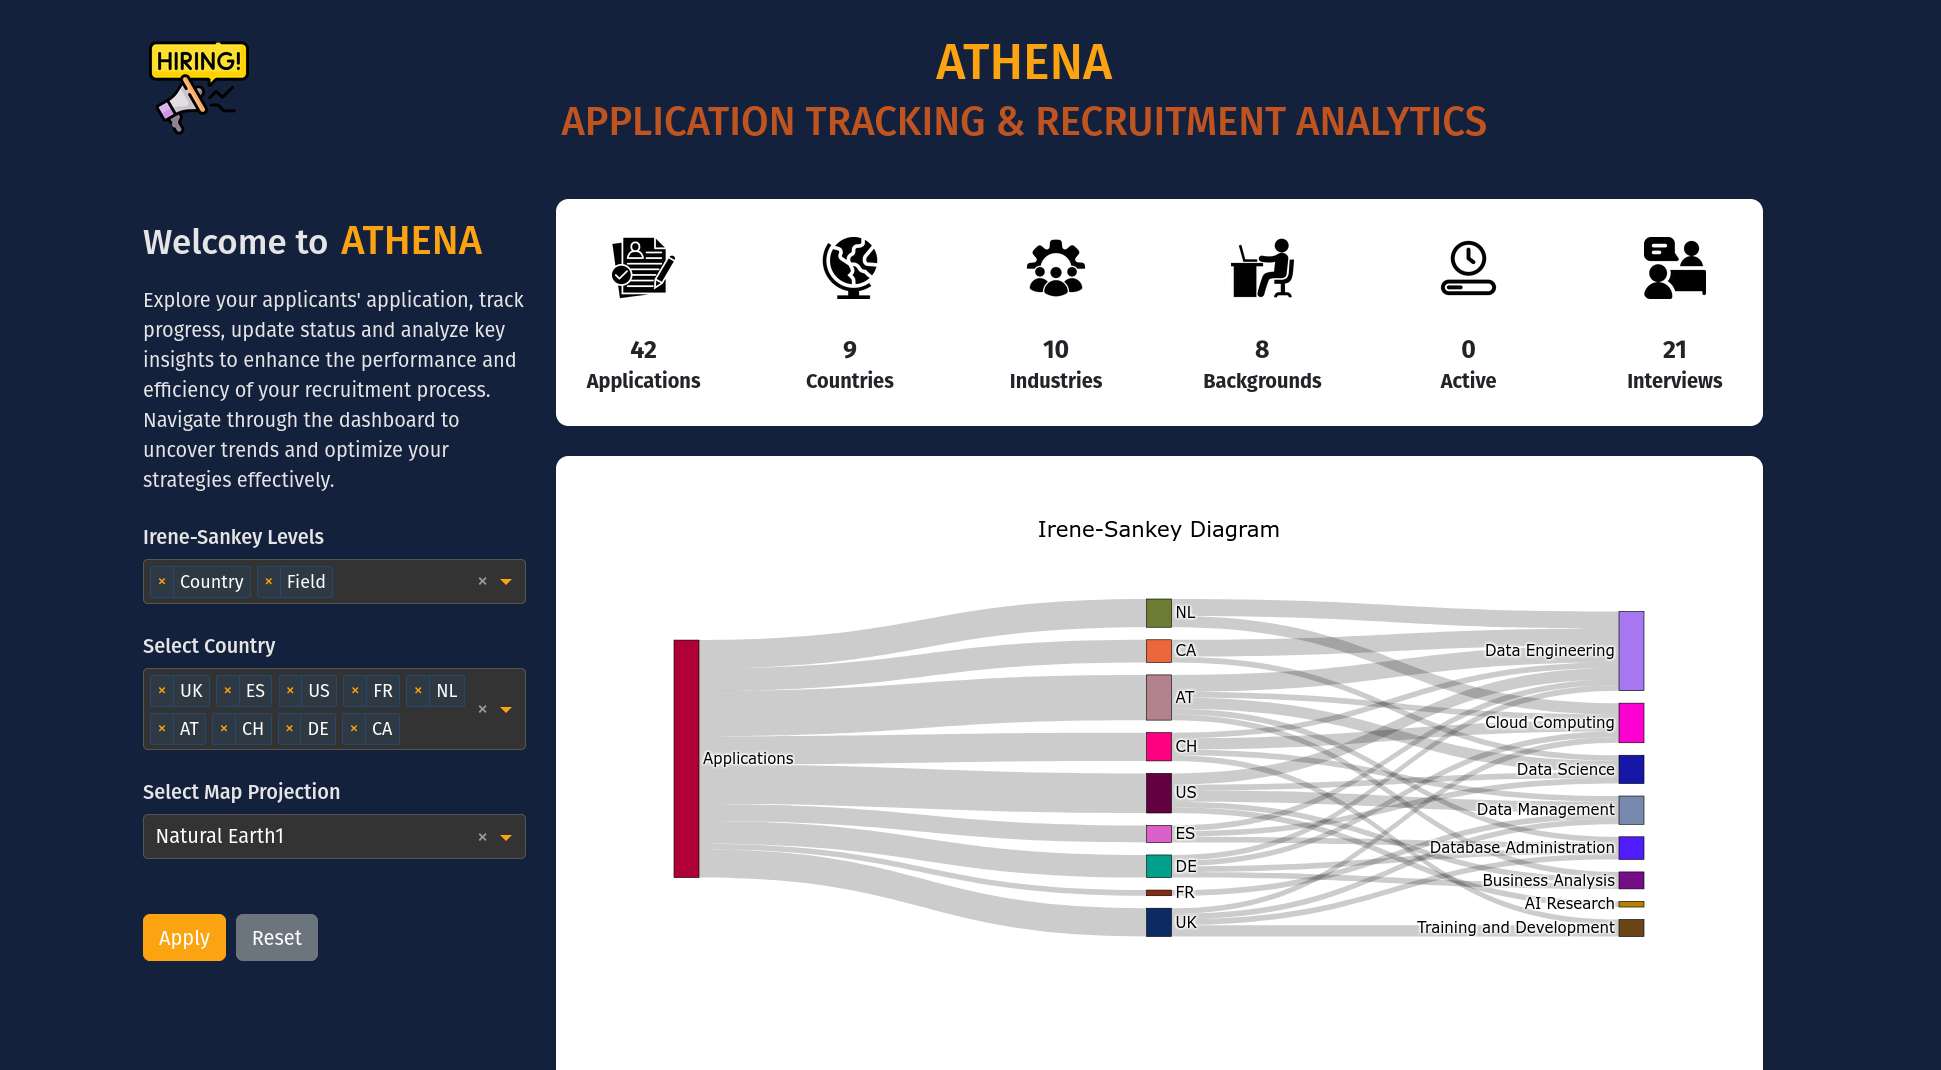
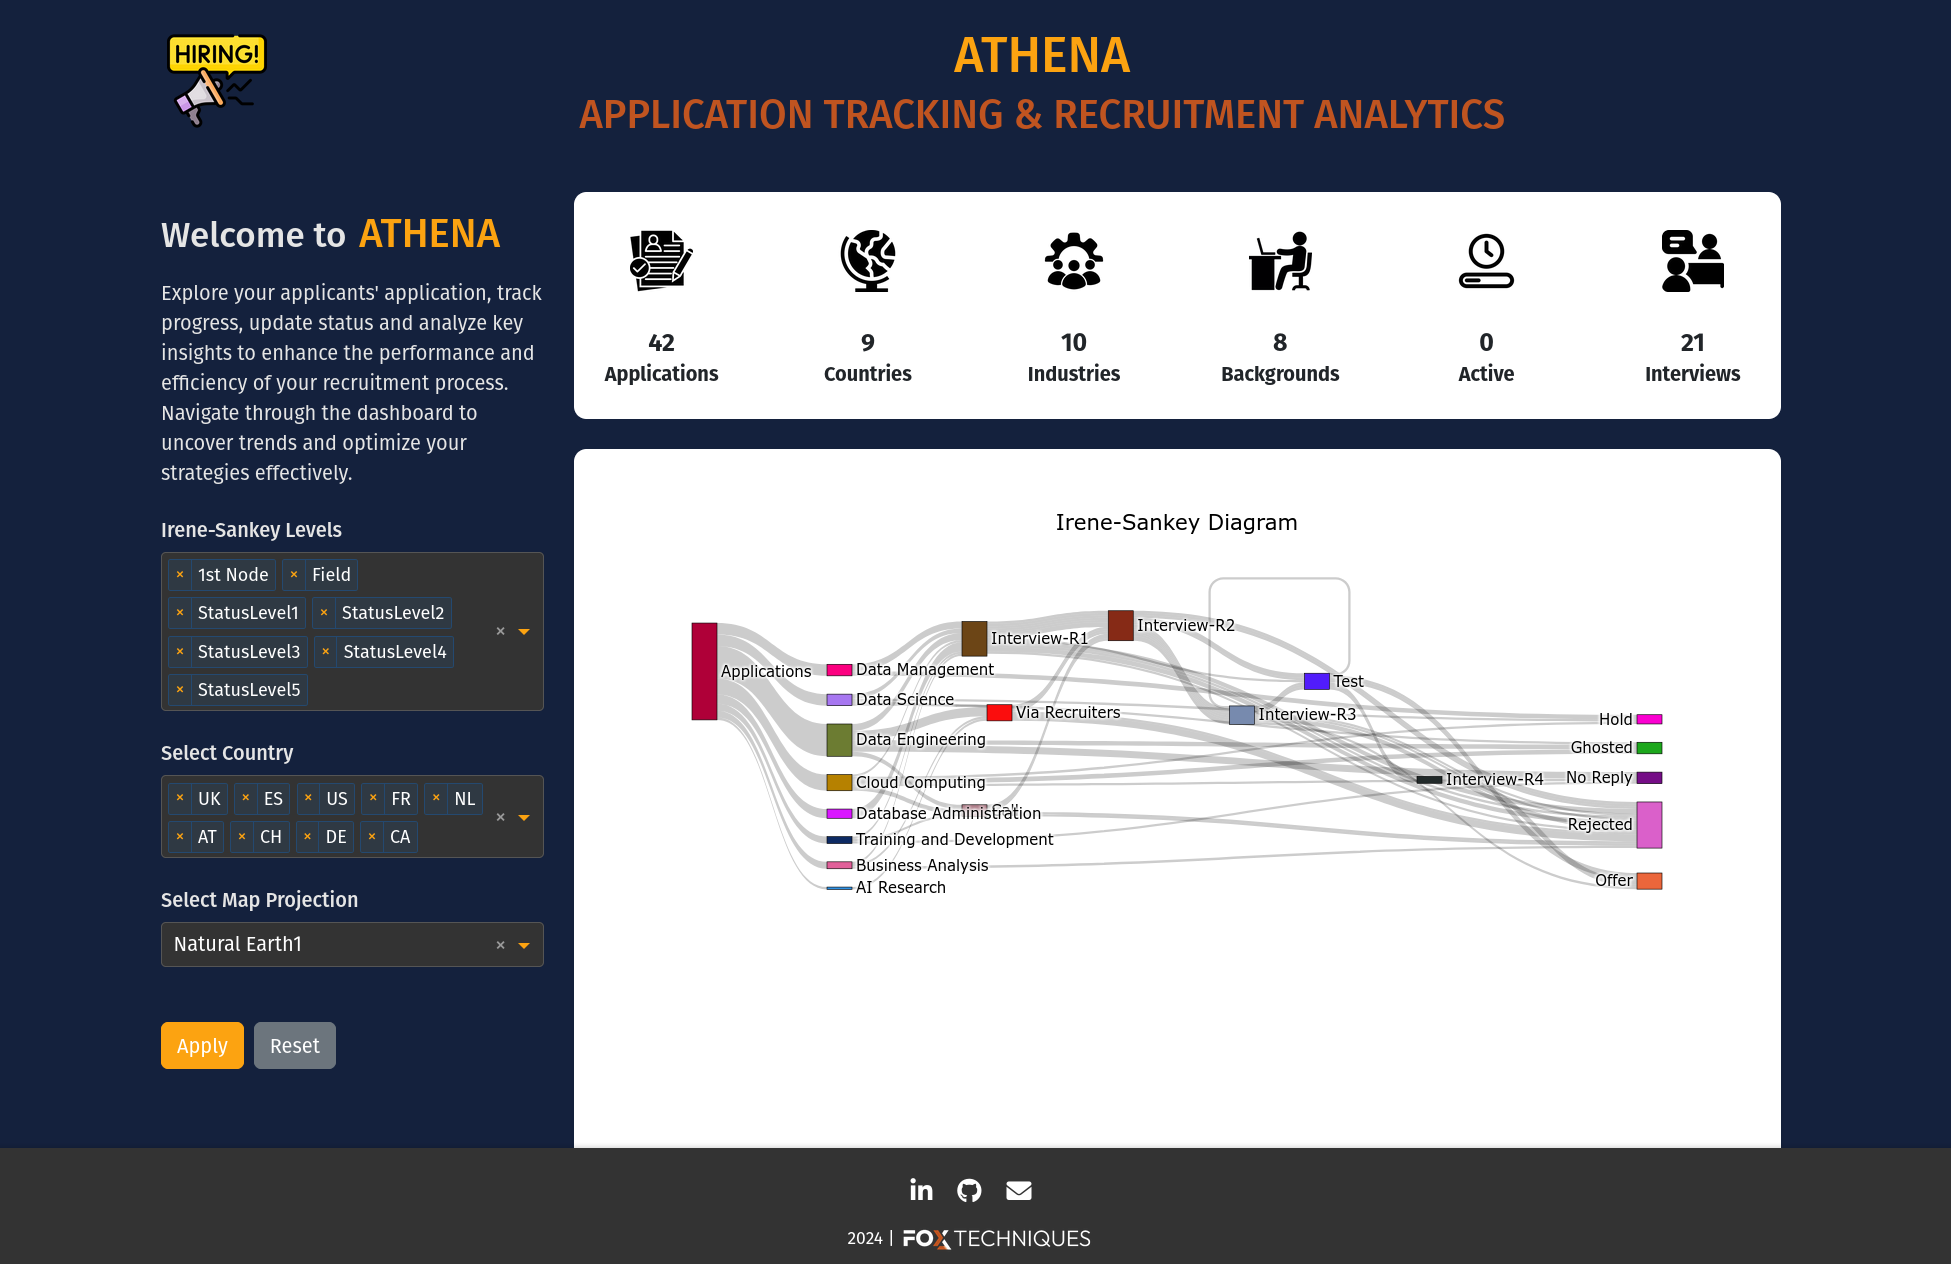
ATHENA with extended status levels is now available

diff --git a/src/data_visualizations.py b/src/data_visualizations.py
@@ -21,38 +21,38 @@ from src.data_loader import load_countries_ISO
 import irene_sankey as irs
 
 
-def create_sankey(data, levels, title, color_template, font_color):
+def create_irene_sankey(data, levels, title, color_template, font_color):
     """
-    Generate a Sankey diagram for hierarchical flow data.
+    Generate a Irene-Sankey diagram for hierarchical flow data.
 
     Args:
         data (pd.DataFrame): DataFrame containing the flow data.
         levels (list of str): List of columns in the DataFrame representing levels of hierarchy.
             e.g. ["", "Country", "Field"]
-        title (str): Title of the Sankey diagram.
+        title (str): Title of the Irene-Sankey diagram.
         color_template (str): Plotly template to use for styling.
         font_color (str): Color of the text in the visualization.
 
     Returns:
-        plotly.graph_objects.Figure: Sankey diagram visualization.
+        plotly.graph_objects.Figure: Irene-Sankey diagram visualization.
     """
-    # Generate the flow data using Irene's Sankey utilities
+    # Generate the flow data using Irene-Sankey utilities
     flow_df, node_map, link = irs.traverse_sankey_flow(
         data, levels, head_node_label="Applications"
     )
 
     # Generate the Sankey diagram
-    fig_sankey = irs.plot_irene_sankey_diagram(node_map, link)
+    fig_irene_sankey = irs.plot_irene_sankey_diagram(node_map, link)
 
     # Apply layout customizations
-    fig_sankey.update_layout(
+    fig_irene_sankey.update_layout(
         title=title,
         template=color_template,
         font=dict(color=font_color),
         title_x=0.5,
     )
 
-    return fig_sankey
+    return fig_irene_sankey
 
 
 def create_treemap(data, path, values, title, color, color_template, font_color):
@@ -208,7 +208,7 @@ def overview_visualizations(
     map_projection="natural earth1",
 ):
     """
-    Generate all overview visualizations for the jobhunt dataset.
+    Generate all overview visualizations for the recruitment dataset.
 
     Args:
         processed_data_df (pd.DataFrame): Processed applicants' data.
@@ -277,7 +277,7 @@ def overview_visualizations(
     )
 
     # Sankey Diagram
-    fig_irene_sankey = create_sankey(
+    fig_irene_sankey = create_irene_sankey(
         data=processed_data_df,
         levels=["", "Country", "Field"],
         title="Irene-Sankey Flow Diagram",

diff --git a/app.py b/app.py
@@ -1,5 +1,5 @@
 """
-Athena Jobhunt Analytics Dashboard
+ATHENA Application Tracking & Recruitment Analytics Dashboard
 
 This application is built using Dash to provide insights and analytics for job applications.
 It includes an interactive interface to track, analyze, and visualize job application data.
@@ -35,6 +35,7 @@ from src.data_generator import (
     predict_missing_company_industry,
     predict_missing_position_field,
     add_industry_and_field,
+    extend_status_levels,
 )
 from src.data_visualizations import overview_visualizations
 
@@ -51,14 +52,13 @@ app = Dash(
         "https://cdnjs.cloudflare.com/ajax/libs/font-awesome/6.0.0-beta3/css/all.min.css",
         "./assets/styles.css",
     ],
-    title="Athena: Recruitment Analytics",
+    title="ATHENA - Recruitment Analytics",
 )
 
 server = app.server
 
 # Parsing and processing data for visualizations
 parsed_df = parse_job_application_directory(APPLICATIONS_DIR)
-
 
 # Load mappings and enrich data
 company_industry_mapping, position_field_mapping = load_json_mappings()
@@ -81,18 +81,20 @@ updated_data_df = add_industry_and_field(
     updated_position_field_mapping,
 )
 
-# Extract key metrics
-metrics = get_overall_insights(updated_data_df)
+# Extend status codes to levels
+extended_data_df = extend_status_levels(updated_data_df)
 
+# Extract key metrics
+metrics = get_overall_insights(extended_data_df)
 
 # Generate visualizations
-visualizations = overview_visualizations(updated_data_df)
+visualizations = overview_visualizations(extended_data_df)
 
 # Assign layout
-app.layout = generate_layout(updated_data_df, metrics, visualizations)
+app.layout = generate_layout(extended_data_df, metrics, visualizations)
 
 # Register callbacks
-register_callbacks(app, updated_data_df)
+register_callbacks(app, extended_data_df)
 
 if __name__ == "__main__":
     # port = int(os.environ.get("PORT", 8050))

diff --git a/callbacks/update_figures.py b/callbacks/update_figures.py
@@ -1,12 +1,13 @@
 from dash import Input, Output, State, callback_context
-import pandas as pd
 
 from src.data_visualizations import (
-    create_sankey,
+    create_irene_sankey,
     create_treemap,
     create_bar_chart,
     create_choropleth,
 )
+
+from src.utils import reorder_and_place_status_levels
 
 
 def register_callbacks(app, df):
@@ -48,7 +49,16 @@ def register_callbacks(app, df):
         triggered_id = ctx.triggered[0]["prop_id"].split(".")[0]
 
         # Default values for reset
-        default_ir_levels = ["", "Country", "Field"]
+        default_ir_levels = [
+            "1st Node",
+            "Field",
+            "StatusLevel1",
+            "StatusLevel2",
+            "StatusLevel3",
+            "StatusLevel4",
+            "StatusLevel5",
+        ]
+
         default_countries = df["Country"].unique()
         default_projection = "natural earth1"
 
@@ -61,10 +71,13 @@ def register_callbacks(app, df):
         # Filter data based on selected countries
         filtered_data = df[df["Country"].isin(selected_countries)]
 
-        # Create Sankey Diagram
-        sankey_figure = create_sankey(
+        # Handle 1st Node position in the list and status levels order
+        modified_ir_levels = reorder_and_place_status_levels(ir_levels)
+
+        # Create Irene-Sankey Diagram
+        irene_sankey_figure = create_irene_sankey(
             data=filtered_data,
-            levels=ir_levels,
+            levels=modified_ir_levels,
             title="Irene-Sankey Diagram",
             color_template="plotly",
             font_color="#000000",
@@ -123,7 +136,7 @@ def register_callbacks(app, df):
             ir_levels,
             selected_countries,
             selected_projection,
-            sankey_figure,
+            irene_sankey_figure,
             industries_figure,
             fields_figures,
             choropleth_figure,

diff --git a/src/utils.py b/src/utils.py
@@ -1,0 +1,57 @@
+import re
+
+
+def handle_1st_node_for_ir_levels(ir_levels):
+    """
+    Handle the special case for '1st Node', replacing it with an empty string
+    and adjusting the order.
+
+    Args:
+        ir_levels (list): The original list of levels.
+
+    Returns:
+        list: The modified list of levels.
+    """
+    if "1st Node" in ir_levels:
+        return [""] + [level for level in ir_levels if level != "1st Node"]
+    return ir_levels
+
+
+def reorder_and_place_status_levels(ir_levels):
+    """
+    Reorder StatusLevel items by their numeric order and place them back in their original indices.
+    Runs the reordering logic only if more than one StatusLevel is present.
+
+    Args:
+        levels (list): The original list of levels.
+
+    Returns:
+        list: The list with StatusLevel items reordered numerically and placed back in their initial positions.
+    """
+    # Preprocess levels to handle '1st Node'
+    ir_levels = handle_1st_node_for_ir_levels(ir_levels)
+
+    # Extract StatusLevel items and their indices
+    status_levels = [
+        (index, level)
+        for index, level in enumerate(ir_levels)
+        if "StatusLevel" in level
+    ]
+
+    # Only reorder if more than one StatusLevel is found
+    if len(status_levels) > 1:
+        # Sort StatusLevel items by the numeric value extracted from their names
+        sorted_status_levels = sorted(
+            status_levels, key=lambda x: int(re.search(r"(\d+)", x[1]).group(1))
+        )
+
+        # Replace the sorted StatusLevel items back into the original list
+        ir_levels_copy = ir_levels.copy()
+        for (original_index, _), (_, sorted_level) in zip(
+            status_levels, sorted_status_levels
+        ):
+            ir_levels_copy[original_index] = sorted_level
+
+        return ir_levels_copy
+
+    return ir_levels

diff --git a/src/control_panel.py b/src/control_panel.py
@@ -57,12 +57,24 @@ def description_card():
     )
 
 
-def generate_control_card(df):
+def generate_control_card(
+    df,
+    dropdown_ir_default_values=[
+        "1st Node",
+        "Field",
+        "StatusLevel1",
+        "StatusLevel2",
+        "StatusLevel3",
+        "StatusLevel4",
+        "StatusLevel5",
+    ],
+):
     """
     Create a control panel for filtering data visualizations.
 
     Args:
-        df (DataFrame):
+        df (DataFrame): DataFrame containing data for dropdown options.
+        dropdown_ir_default_values (list): Default levels for the dropdown selection.
 
     Returns:
         html.Div: A Div containing the control panel for data visualizations.
@@ -73,9 +85,7 @@ def generate_control_card(df):
 
     # Filter levels and add "All Records" mapped to ""
     possible_ir_levels = df.columns[~df.columns.str.contains(columns_to_exclude_regex)]
-    dropdown_options = [{"label": "1st Node", "value": ""}] + [
-        {"label": col, "value": col} for col in possible_ir_levels
-    ]
+    dropdown_options = ["1st Node"] + [col for col in possible_ir_levels]
 
     globe_list = load_map_projections()
 
@@ -87,7 +97,7 @@ def generate_control_card(df):
             dcc.Dropdown(
                 id="ir-level-select",
                 options=dropdown_options,
-                value=["", "Country", "Field"],
+                value=dropdown_ir_default_values,
                 multi=True,
                 className="dark-dropdown",
             ),

diff --git a/pages/generate_layout.py b/pages/generate_layout.py
@@ -9,7 +9,7 @@ from src.control_panel import (
 
 def generate_layout(processed_data_df, metrics, visualizations):
     """
-    Generate the layout for the Athena dashboard.
+    Generate the layout for the ATHENA dashboard.
 
     Args:
         processed_data_df (DataFrame): The processed job application data.
@@ -19,7 +19,7 @@ def generate_layout(processed_data_df, metrics, visualizations):
                                 (industries_chart, fields_chart, choropleth_map, sankey_diagram).
 
     Returns:
-        html.Div: The full layout of the Athena dashboard.
+        html.Div: The full layout of the ATHENA dashboard.
     """
     # Unpack metrics and visualizations
     (

diff --git a/docs/demo.md b/docs/demo.md
@@ -15,6 +15,10 @@
 
     ![ATHENA Screenshot](assets/screenshot-03-demo.png){ width=800 }
 
+=== "Screenshot 4"
+
+    ![ATHENA Screenshot](assets/screenshot-04-demo.png){ width=800 }
+
 
 
 ## How to Use
